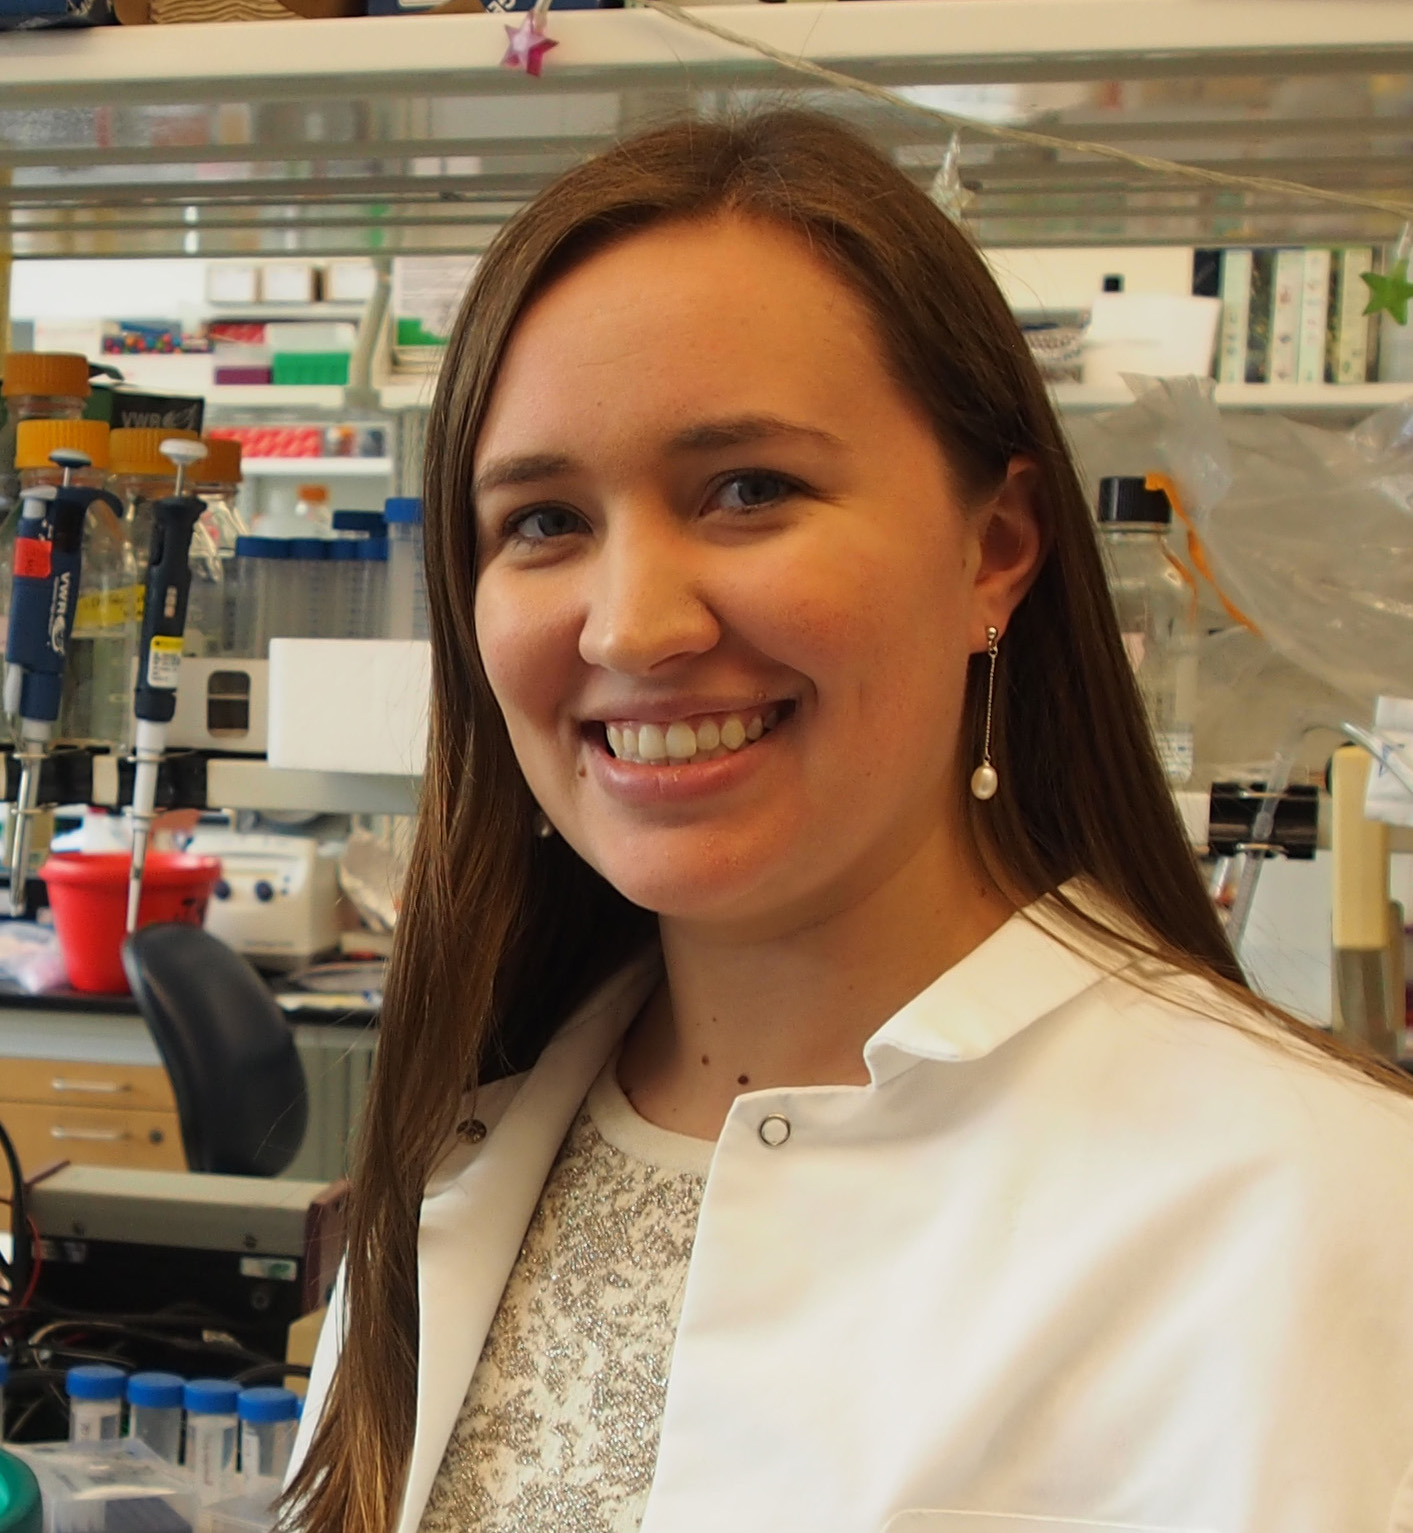
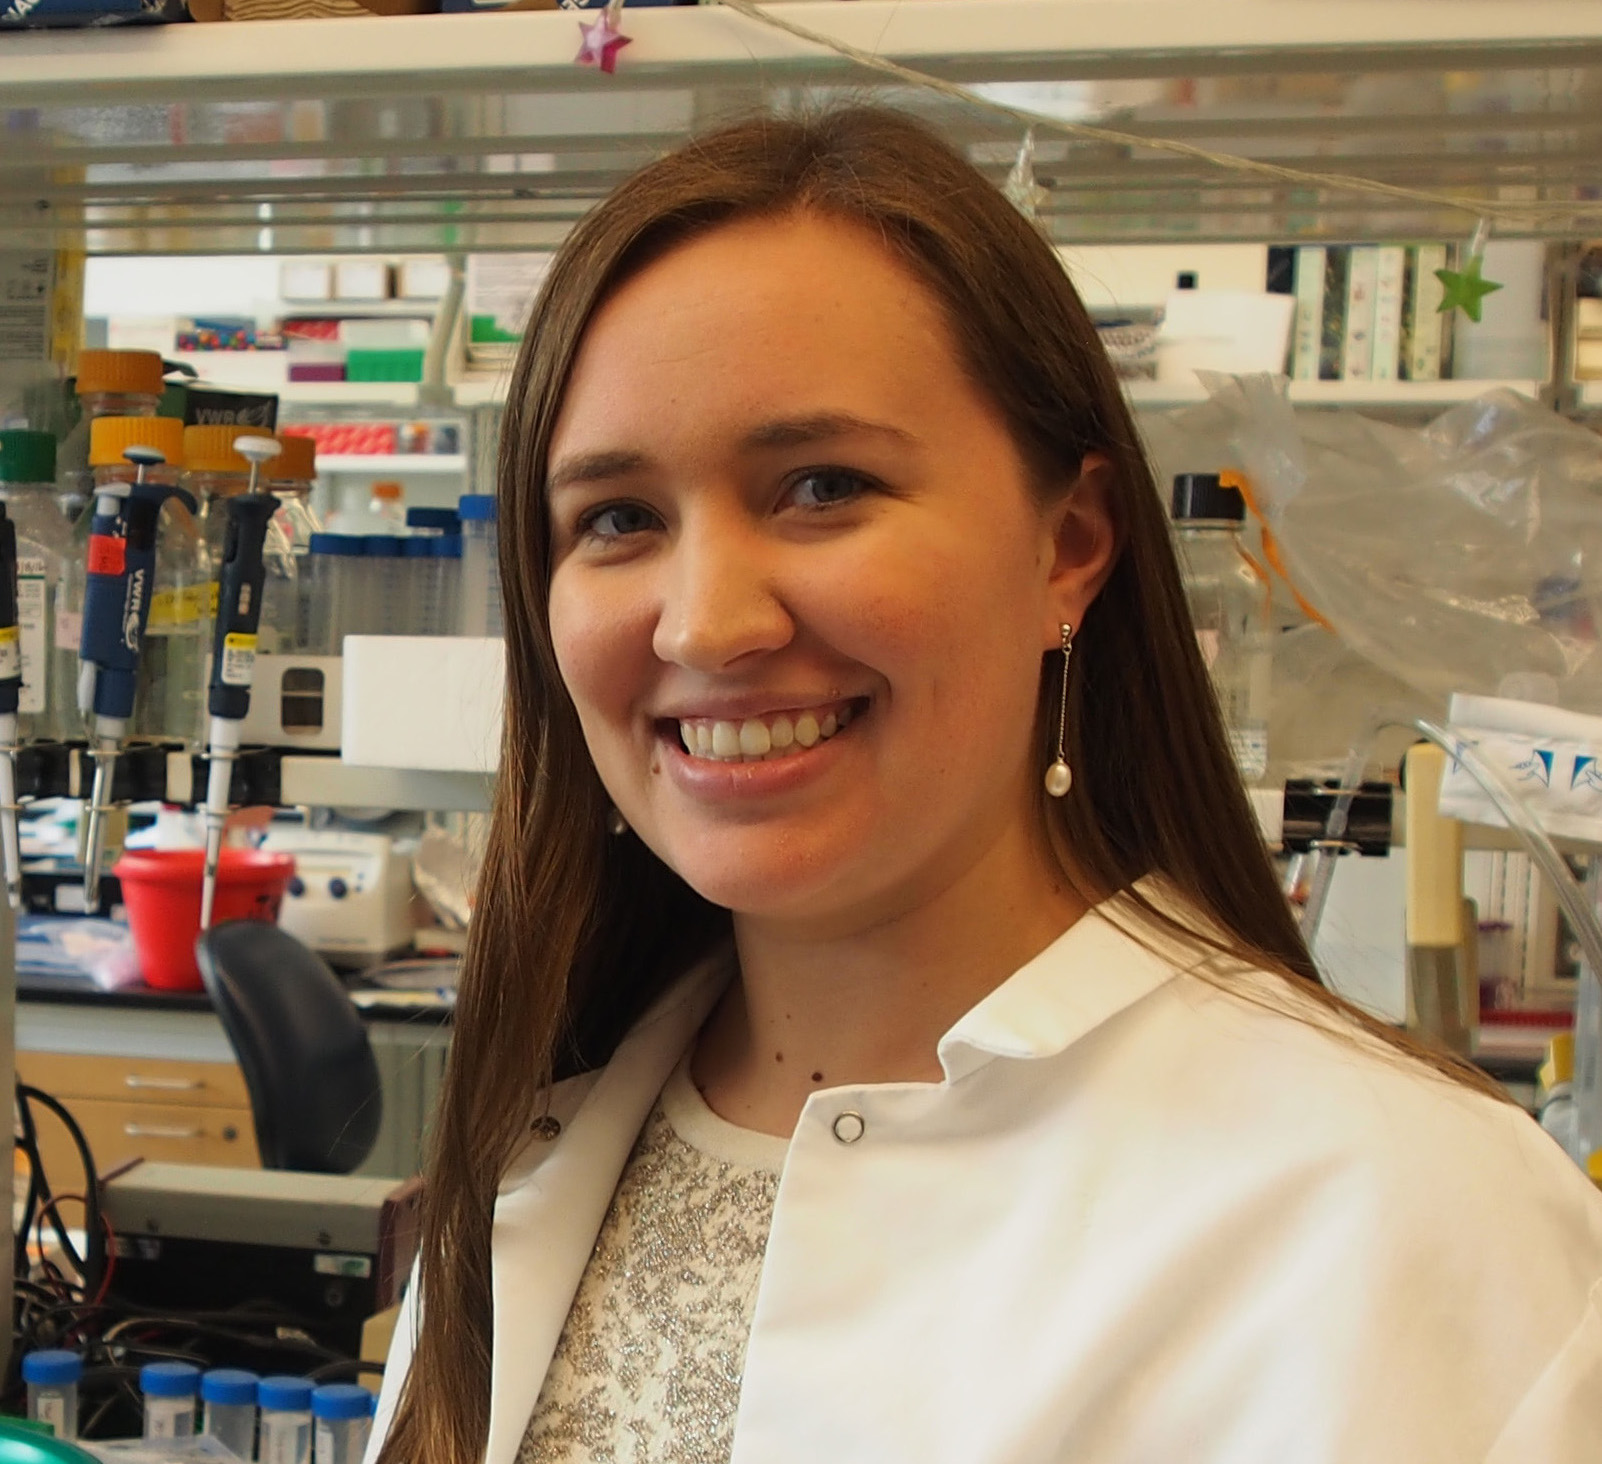
lindsay3

diff --git a/02-people.md b/02-people.md
@@ -29,7 +29,7 @@ permalink: "people.html"
 &nbsp;&nbsp;&nbsp;Vijay Sankaran Lab<br>
 <br><br><br>
 
-<img alt="Lindsay LaFave" align="left" src="media/people/LindsayLaFave.jpg" width="140" height="140"/>
+<img alt="Lindsay LaFave" align="left" src="media/people/LindsayLaFave2.jpg" width="140" height="140"/>
 &nbsp;&nbsp;&nbsp;<b>Lindsay LaFave, PhD</b><br>
 &nbsp;&nbsp;&nbsp;Collaborating Post Doc<br>
 &nbsp;&nbsp;&nbsp;Tyler Jacks Lab<br>
